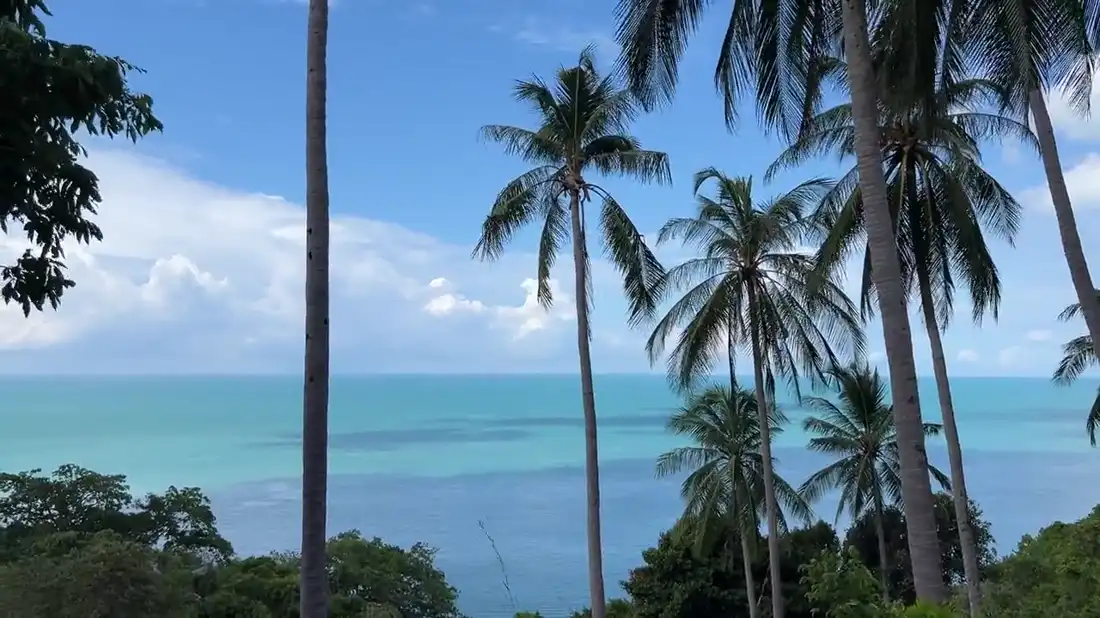
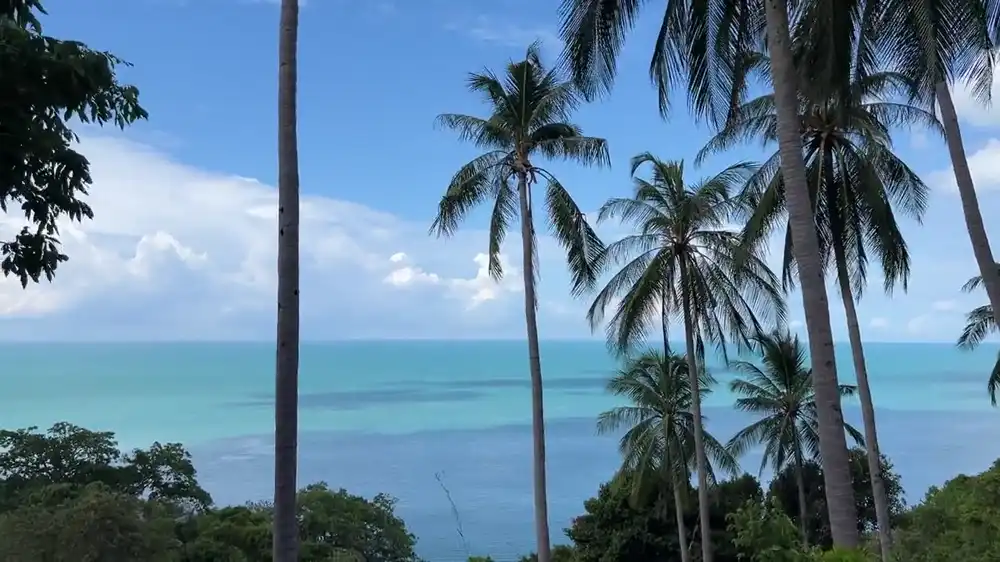
Perf: defer hero video until after first paint (improves FCP/LCP); compress activities+poster

diff --git a/index.html b/index.html
@@ -320,7 +320,7 @@
   <!-- HERO -->
   <section class="hero">
     <div class="hero-art" id="heroArt">
-      <video class="hero-video" autoplay muted loop playsinline poster="Pics/hero-poster.webp">
+      <video class="hero-video" muted loop playsinline preload="none" poster="Pics/hero-poster.webp">
         <source src="Pics/hero.mp4" type="video/mp4" />
       </video>
       <div class="hero-overlay"></div>
@@ -603,6 +603,13 @@
       var gv = document.querySelector('.gal-video');
       if (gv) { gv.setAttribute('autoplay', ''); gv.autoplay = true; var p2 = gv.play(); if (p2 && p2.catch) p2.catch(function () {}); }
     })();
+
+    // Start the hero video AFTER first paint so its bytes don't delay FCP/LCP on slow connections
+    window.addEventListener('load', function () {
+      var hv = document.querySelector('.hero-video');
+      if (!hv) return;
+      setTimeout(function () { try { hv.preload = 'auto'; var p = hv.play(); if (p && p.catch) p.catch(function(){}); } catch (e) {} }, 200);
+    });
 
     // Fade-in on scroll
     (function () {